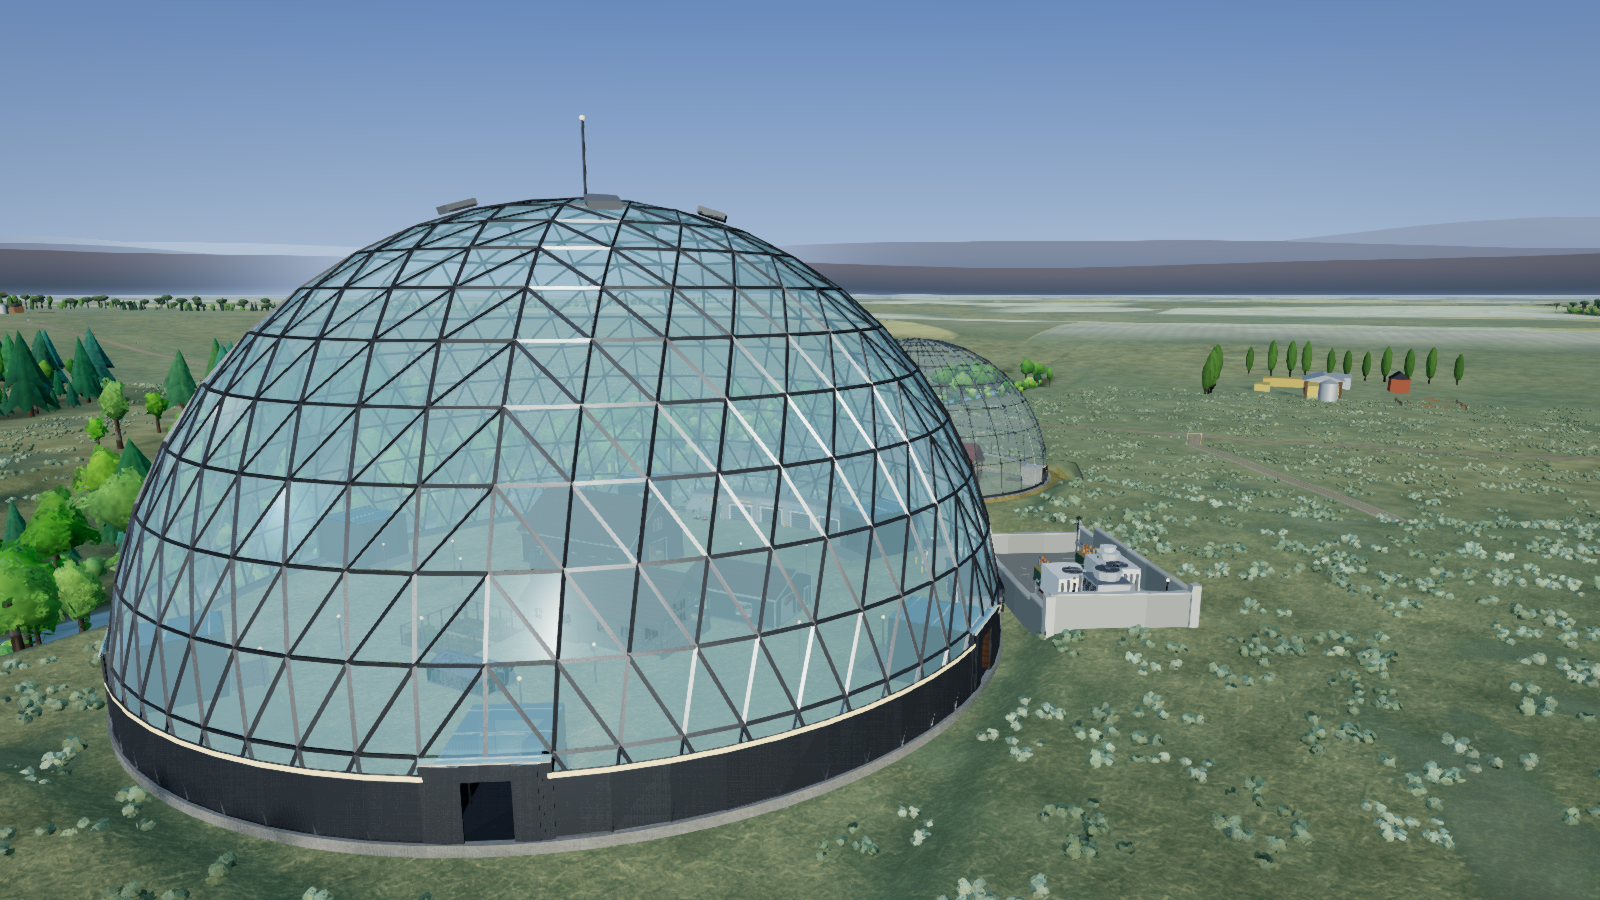
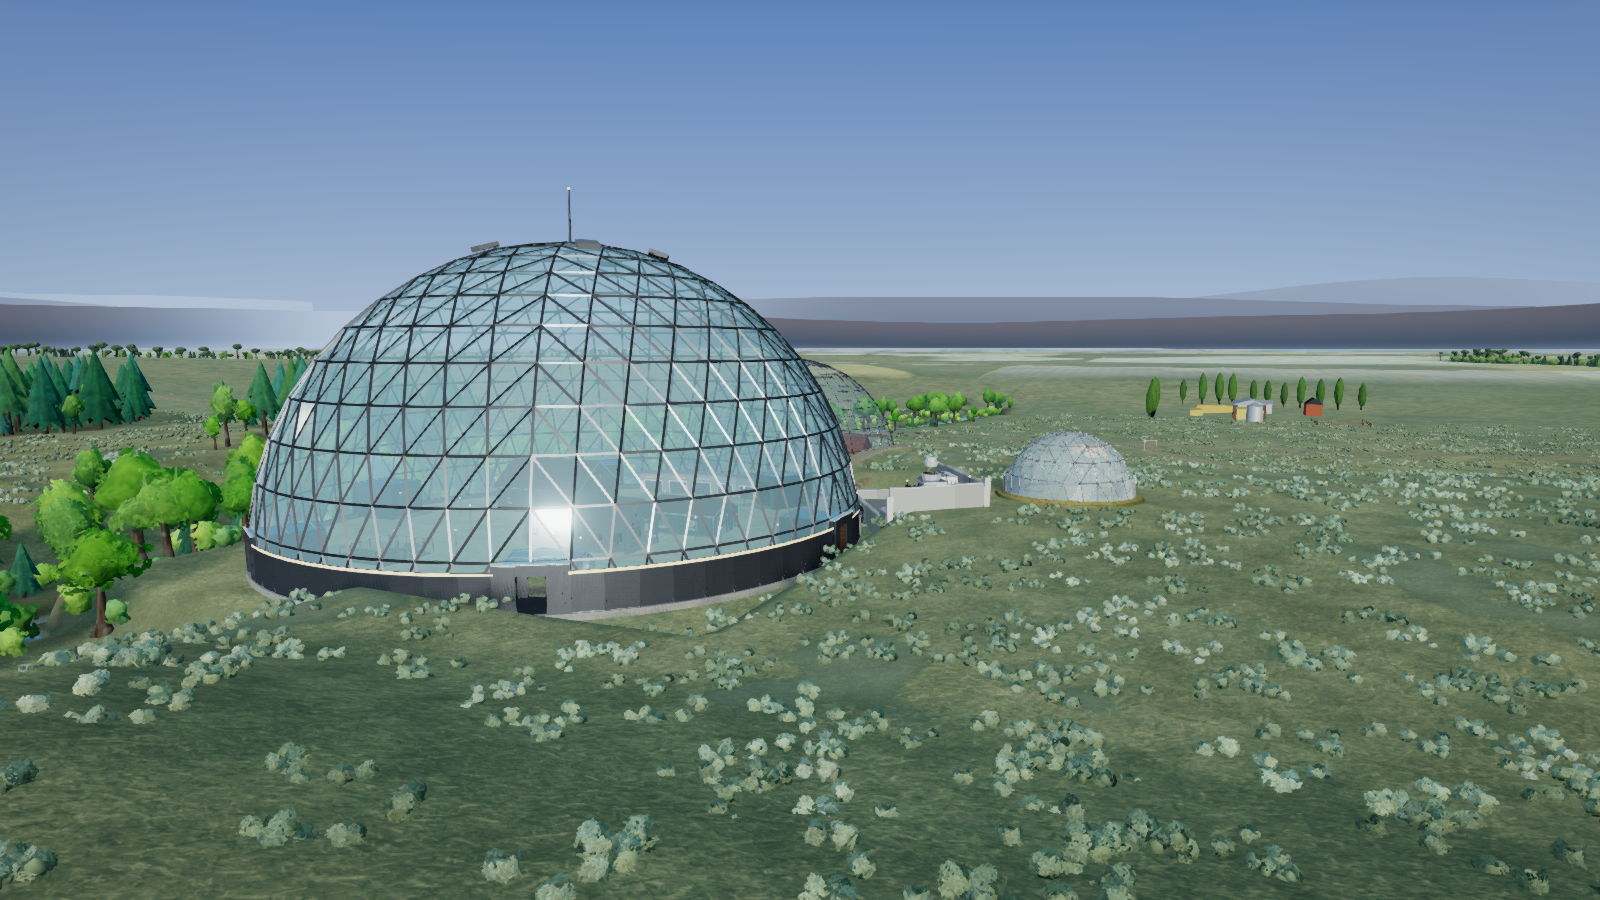
Plant for every big dome (not only the main one); yard access shots use ground-relative poses

diff --git a/src/game/HomesteadWorld.ts b/src/game/HomesteadWorld.ts
@@ -160,7 +160,7 @@ import { ritualCtx } from './people/ritualGoals';
 import { homeSafety, homeSafetyInput, type HomeSafety } from './atmosphere/homeSafety';
 import { ritualsOf, stanceOf, tableSet } from '../sim/rituals';
 import { bedHour, pickHomeLine } from '../sim/domesticLines';
-import { domeOf, domeLook } from '../sim/dome/live';
+import { domeOf, domeLook, domesOf as domesLive } from '../sim/dome/live';
 import { TIER, cellsOfKind, shellFt, tierOfKind } from '../sim/dome/tiers';
 import { inYard, yardGeometry } from '../sim/dome/plantYard';
 import { isGradedTier } from '../sim/dome/grading';
@@ -451,6 +451,7 @@ export class HomesteadWorld {
   private _domeAir(game: GameState): void {
     const d = domeOf(game), look = domeLook(game);
     for (const b of this._built.values()) {
+      if (b.cover) this._syncPlant(b, game);
       const fx = b.group.userData.domeAir as DomeAirFx | undefined;
       if (!d || b.placed.id !== d.st.id || !b.finished) { if (fx) fx.group.visible = false; continue; }
       let f = fx;
@@ -461,22 +462,25 @@ export class HomesteadWorld {
       }
       f.group.visible = true;
       f.apply(look);
-      for (const pf of this._domePlants.values()) pf.setView(this._view);   // (cutaway and x-ray: the plant goes see-through and the passage shows)
-      // the plant: the machinery, roof hatches and path lamps of a big dome, scaled by its ecology and size (sim/dome/plant.ts)
-      if (isGradedTier(d.tier)) {
-        const dst = domeStateOf(game, d), hurt: Record<string, 'ok' | 'damaged' | 'down'> = {};
-        for (const u of plantUnitsOf(game, d, dst)) if (u.cond !== 'ok') hurt[u.id] = u.cond;
-        const plook: PlantLook = { loop: dst.loop, spares: dst.spares, rot: b.placed.rot, hurt, dark: plantFxOf(game, d, dst).power === 'dark' };
-        const key = plantKey(d.tier, d.r, look.filtering, plook), cur = this._domePlants.get(b.placed.id);
-        if (!cur || cur.key !== key) {
-          if (cur) { this._root.remove(cur.group); cur.dispose(); }
-          const gx = b.placed.x, gz = b.placed.z, y0 = b.group.position.y;
-          const pf = makeDomePlant(d.tier, d.r, look.filtering, (lx, lz) => this.parcel.height(gx + lx, gz + lz) - y0 + 0.01, plook);
-          pf.setUnder(this._under);
-          pf.group.position.set(gx, y0, gz);
-          this._root.add(pf.group); this._domePlants.set(b.placed.id, pf);
-        }
-      }
+    }
+  }
+
+  /** The plant of one finished big dome (every dome has its own: its machinery, yard, roof hatches and lamps; sim/dome/plant.ts), redrawn when its equipment or damage changes. */
+  private _syncPlant(b: Built, game: GameState): void {
+    const ref = domesLive(game).find(x => x.st.id === b.placed.id);
+    if (!ref || !b.finished || !isGradedTier(ref.tier)) return;
+    const dst = domeStateOf(game, ref), hurt: Record<string, 'ok' | 'damaged' | 'down'> = {};
+    for (const u of plantUnitsOf(game, ref, dst)) if (u.cond !== 'ok') hurt[u.id] = u.cond;
+    const plook: PlantLook = { loop: dst.loop, spares: dst.spares, rot: b.placed.rot, hurt, dark: plantFxOf(game, ref, dst).power === 'dark' };
+    const key = plantKey(ref.tier, ref.r, dst.filtering, plook), cur = this._domePlants.get(b.placed.id);
+    if (cur) cur.setView(this._view);
+    if (!cur || cur.key !== key) {
+      if (cur) { this._root.remove(cur.group); cur.dispose(); }
+      const gx = b.placed.x, gz = b.placed.z, y0 = b.group.position.y;
+      const pf = makeDomePlant(ref.tier, ref.r, dst.filtering, (lx, lz) => this.parcel.height(gx + lx, gz + lz) - y0 + 0.01, plook);
+      pf.setUnder(this._under); pf.setView(this._view);
+      pf.group.position.set(gx, y0, gz);
+      this._root.add(pf.group); this._domePlants.set(b.placed.id, pf);
     }
   }
 
